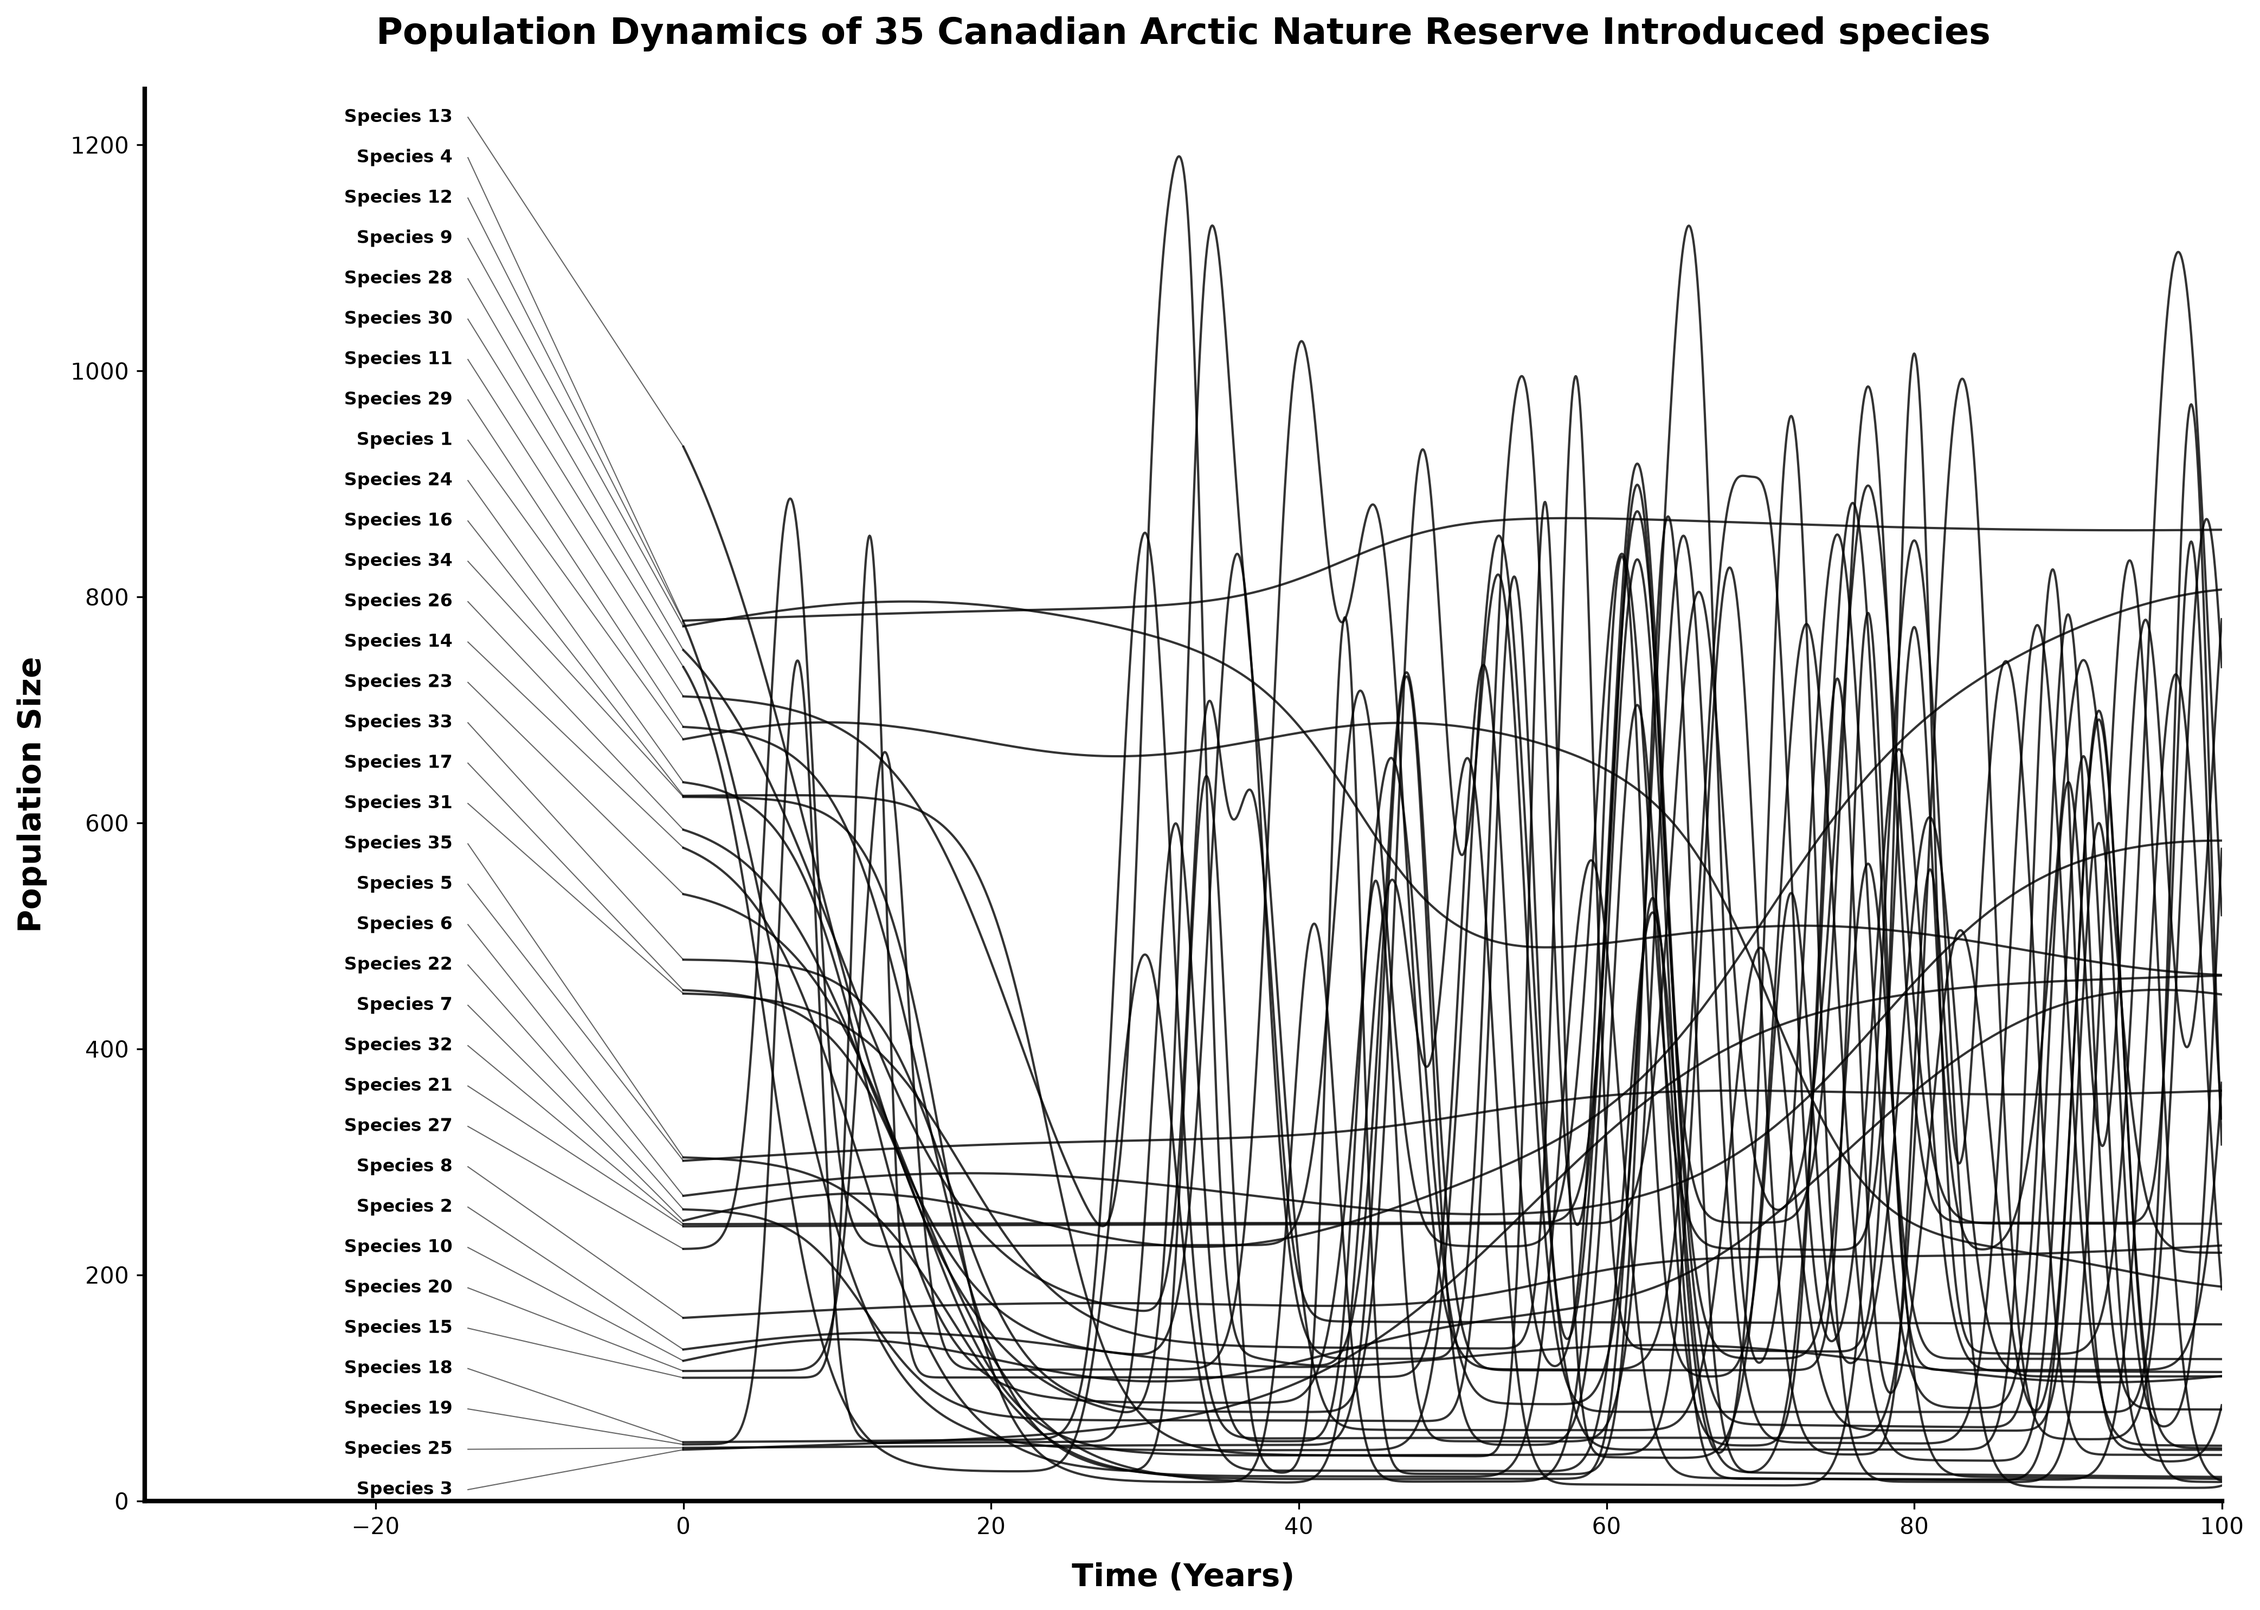
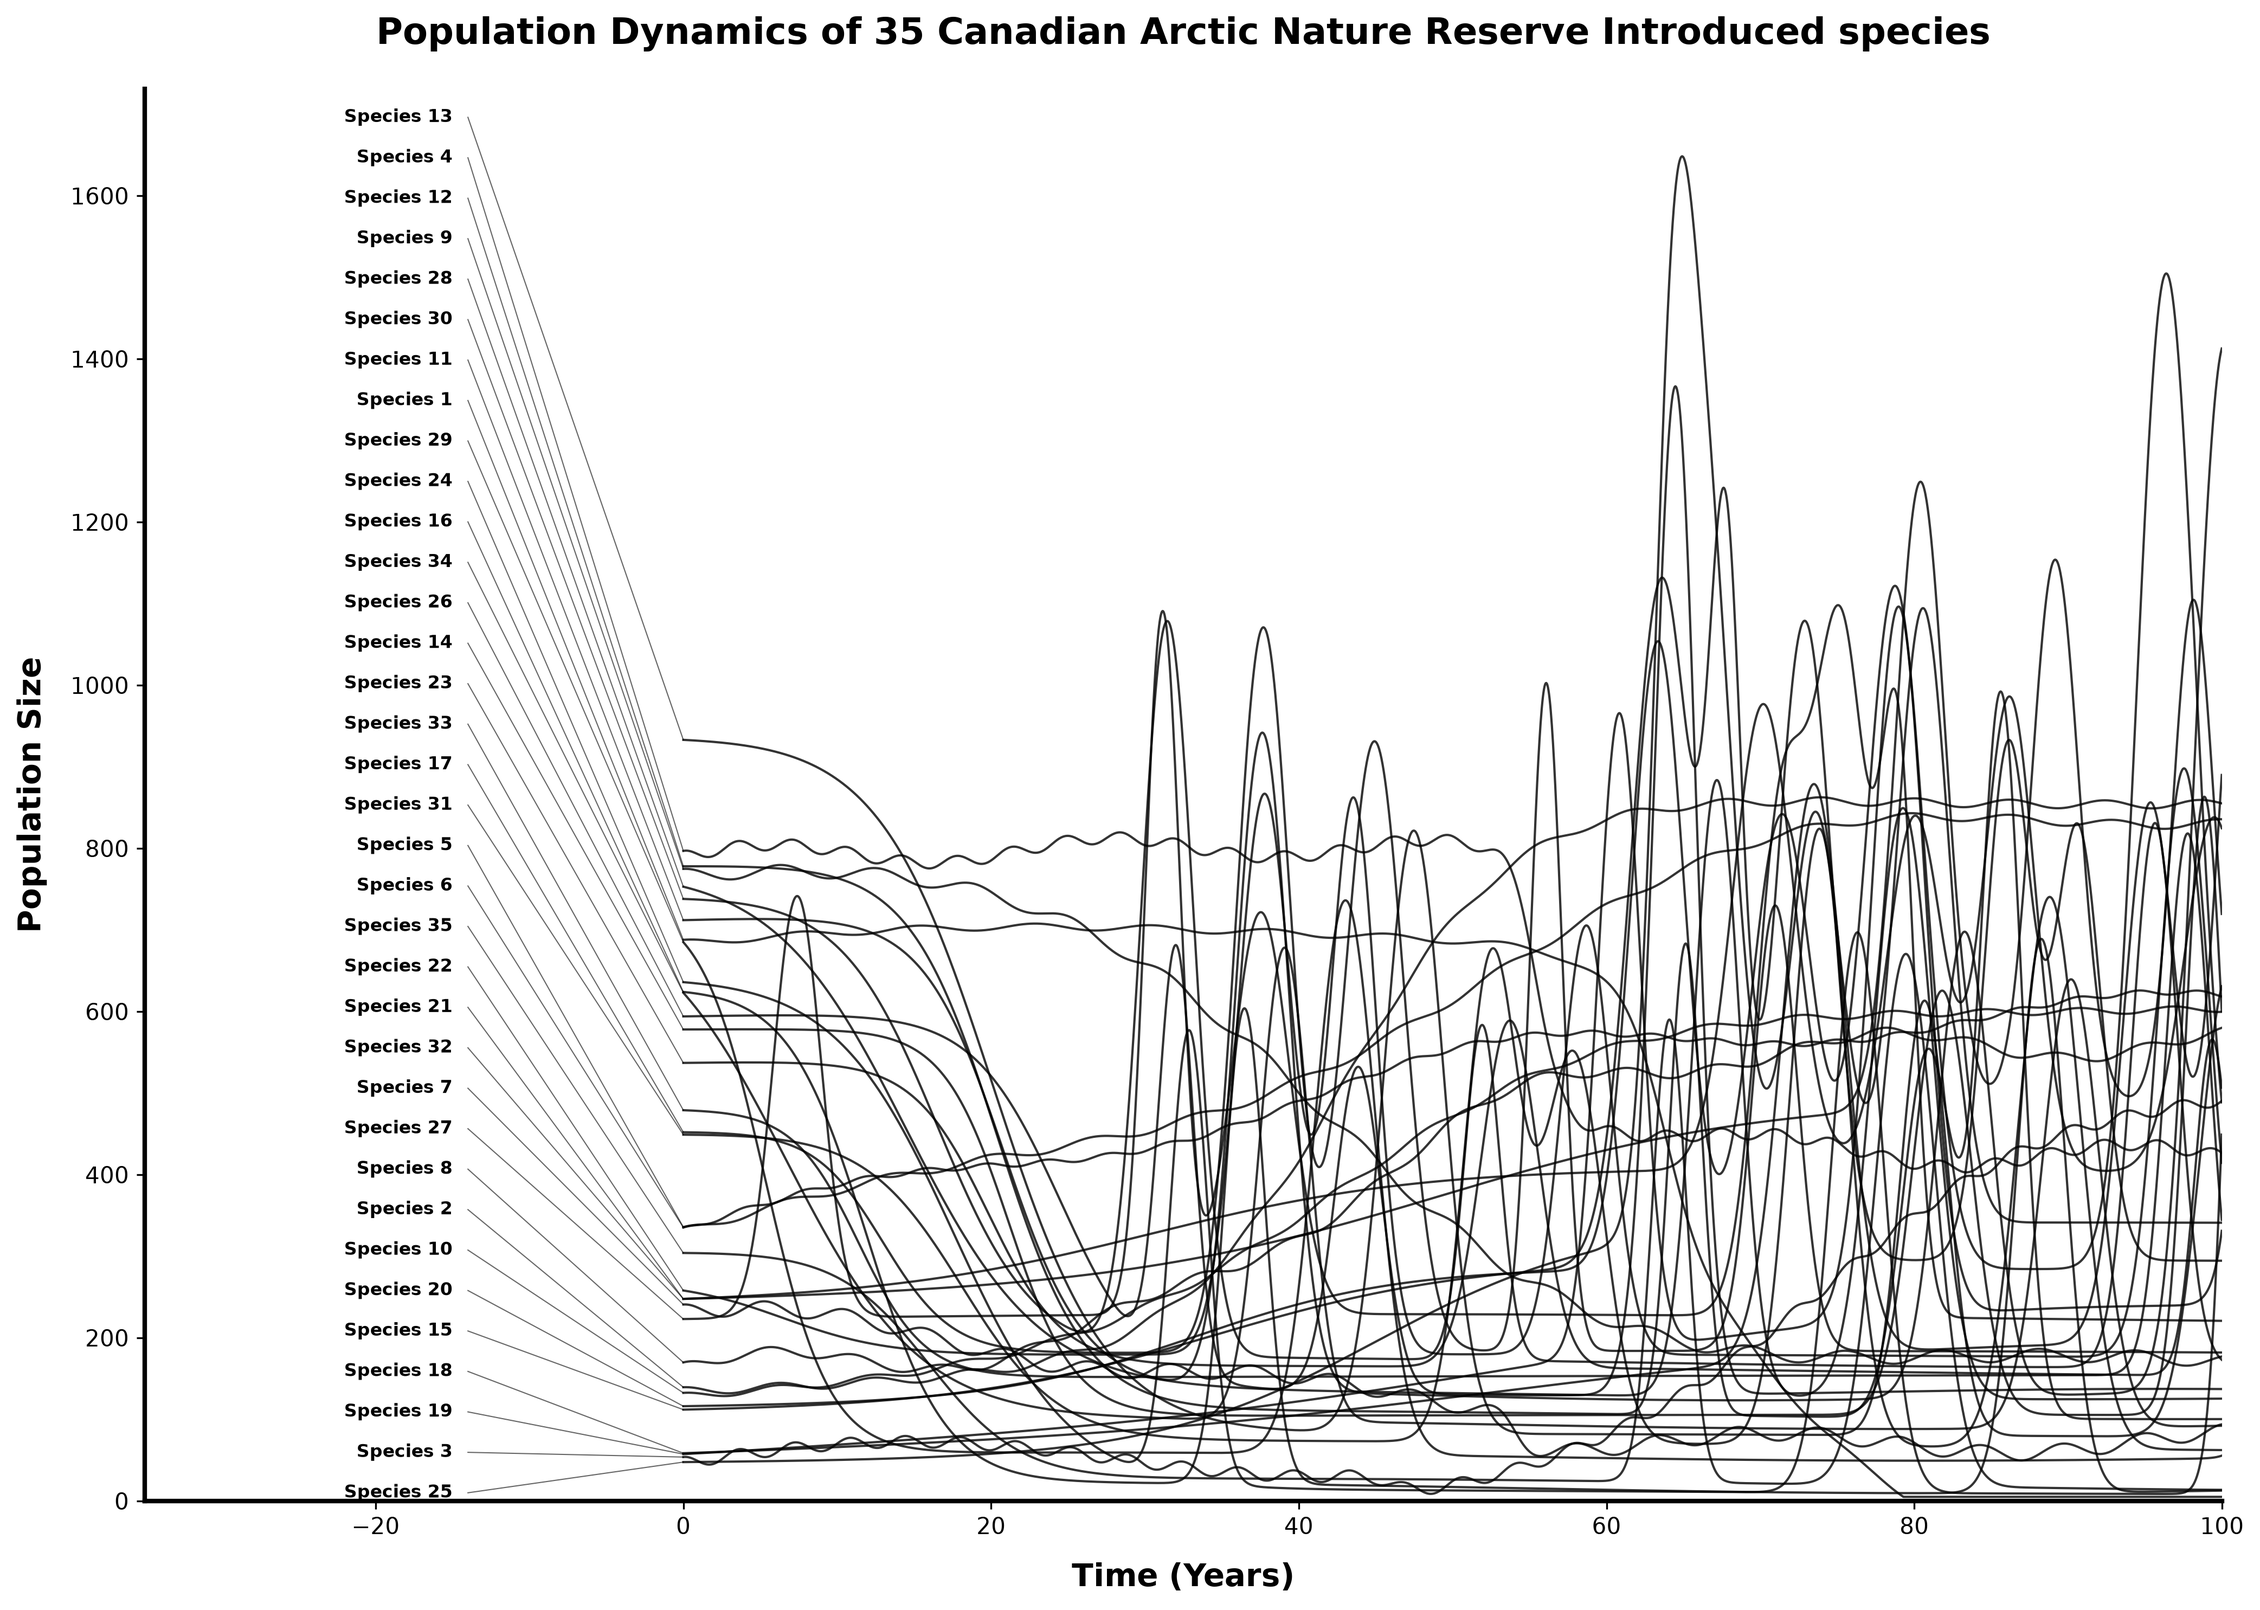
V5 more jitter though i think it might need more

diff --git a/generate-graph.py b/generate-graph.py
@@ -32,11 +32,33 @@ for i in range(10):
     start_pop = k_starts[i]
     end_pop = np.random.randint(100, 900)
     midpoint = np.random.randint(20, 80)
-    rate = np.random.uniform(0.1, 0.3)
+    rate = np.random.uniform(0.05, 0.2)
 
+    # 1. Base logistic curve
     pop = start_pop + (end_pop - start_pop) / (1 + np.exp(-rate * (t - midpoint)))
-    pop += np.random.randint(5, 25) * np.sin(t * np.random.uniform(0.05, 0.2))
 
+    # 2. Add severe crashes to roughly half the K-selected species
+    if random.random() > 0.5:
+        crash_time = np.random.uniform(20, 80)
+        # Calculate the population exactly at the crash time to drop it proportionally
+        crash_idx = int((crash_time / 110.0) * 3000)
+        if crash_idx < 3000:
+            current_level = pop[crash_idx]
+            crash_depth = np.random.uniform(0.4, 0.7) * current_level
+            crash_steepness = np.random.uniform(0.5, 2.0)
+
+            # Apply the crash
+            pop -= crash_depth / (1 + np.exp(-crash_steepness * (t - crash_time)))
+
+            # Apply a slow, agonizing recovery or stabilization to a new baseline
+            recovery_rate = np.random.uniform(0.02, 0.08)
+            pop += (crash_depth * np.random.uniform(0.3, 0.8)) / (1 + np.exp(-recovery_rate * (t - (crash_time + 15))))
+
+    # 3. Add complex, erratic wobble to break up the "nice slow curves"
+    pop += np.random.randint(10, 30) * np.sin(t * np.random.uniform(0.05, 0.3))  # Low freq wobble
+    pop += np.random.randint(2, 10) * np.cos(t * np.random.uniform(0.8, 2.0))  # High freq jitter
+
+    pop = np.clip(pop, 5, None)  # Prevent dropping below 0
     lines.append(pop)
 
 for i in range(25):
@@ -47,34 +69,47 @@ for i in range(25):
     target_start = float(r_starts[i])
 
     if target_start > 250:
-        # Changed to uniform float to prevent perfect integer baseline overlaps
+        # Delayed crash to baseline
         base_pop = np.random.uniform(10.0, 180.0)
-
         crash_midpoint = np.random.uniform(5, 25)
         crash_rate = np.random.uniform(0.2, 0.5)
 
         height = (target_start - base_pop) * (1 + np.exp(-crash_rate * crash_midpoint))
         pop = base_pop + height / (1 + np.exp(crash_rate * (t - crash_midpoint)))
+        spike_start = 30
     else:
-        base_pop = target_start
-        pop = np.full_like(t, base_pop, dtype=float)
-
         if random.random() > 0.5:
+            # NEW: The "Lag Phase" Trap (Fake K-selected)
+            # Slowly rise like a K-selected species for 40-60 years before going nuclear
+            fake_k_end = np.random.uniform(target_start + 50, target_start + 300)
+            fake_mid = np.random.uniform(20, 50)
+            fake_rate = np.random.uniform(0.05, 0.15)
+
+            pop = target_start + (fake_k_end - target_start) / (1 + np.exp(-fake_rate * (t - fake_mid)))
+            spike_start = np.random.uniform(55, 75)  # Wait a long time to boom/bust
+        else:
+            # Standard low starting baseline with an early boom
+            base_pop = target_start
+            pop = np.full_like(t, base_pop, dtype=float)
+
             early_spike = np.random.uniform(5, 15)
             early_height = np.random.randint(400, 900)
             early_width = np.random.uniform(2, 6)
             pop += early_height * np.exp(-((t - early_spike) ** 2) / early_width)
+            spike_start = 30
 
-    # Add a tiny unique organic drift to the baseline so horizontal lines never perfectly merge
-    pop += np.random.uniform(1, 4) * np.sin(t * np.random.uniform(0.01, 0.05))
+    # Organic drift so baselines aren't flat
+    pop += np.random.uniform(2, 8) * np.sin(t * np.random.uniform(0.01, 0.1))
 
+    # Add the exponential spikes AFTER their respective safe windows
     num_spikes = np.random.randint(2, 6)
     for _ in range(num_spikes):
-        spike_time = np.random.randint(30, 110)
+        spike_time = np.random.uniform(spike_start, 110)
         spike_height = np.random.randint(400, 900)
         width = np.random.uniform(2, 8)
         pop += spike_height * np.exp(-((t - spike_time) ** 2) / width)
 
+    pop = np.clip(pop, 5, None)
     lines.append(pop)
 
 combined = list(zip(labels, lines))
@@ -83,7 +118,7 @@ labels, lines = zip(*combined)
 
 # Find the absolute highest point across all species to dynamically set the Y-axis limit
 max_pop_value = max([np.max(pop) for pop in lines])
-y_limit = max(1100.0, max_pop_value * 1.05) # Add 5% breathing room at the top
+y_limit = max(1100.0, max_pop_value * 1.05)
 
 # ==========================================
 # EXPORT GROUND TRUTH JSON
@@ -105,7 +140,6 @@ for pop in lines:
 start_vals = [pop[0] for pop in lines]
 sorted_indices = np.argsort(start_vals)
 
-# Dynamically space text labels across the new responsive Y-axis
 text_y_positions = np.linspace(10, y_limit * 0.98, len(lines))
 
 for rank, idx in enumerate(sorted_indices):
